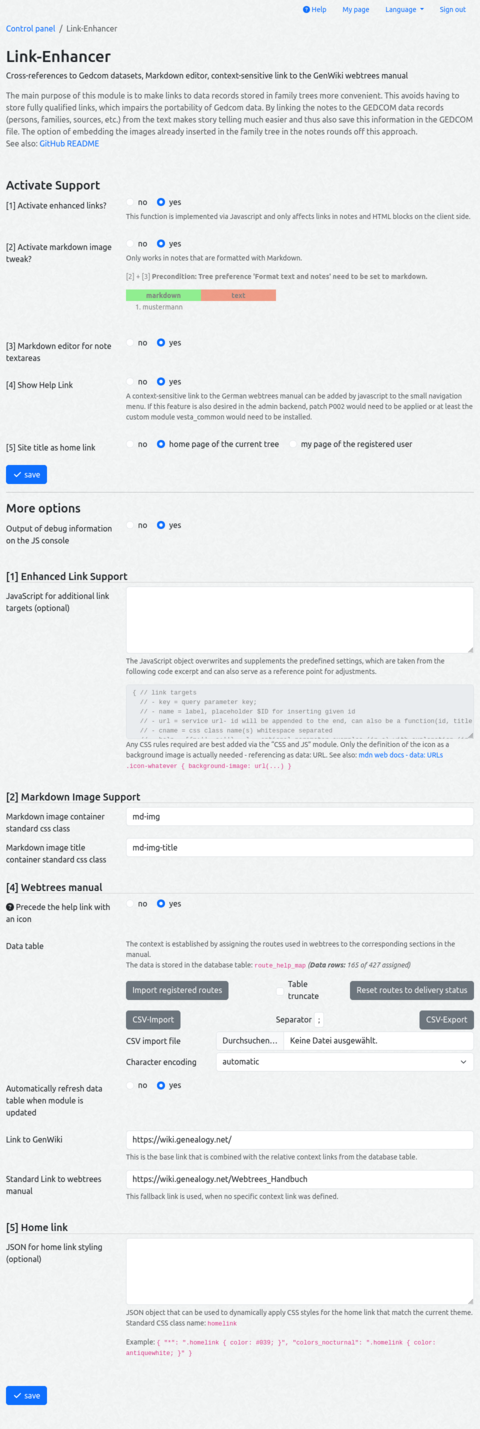
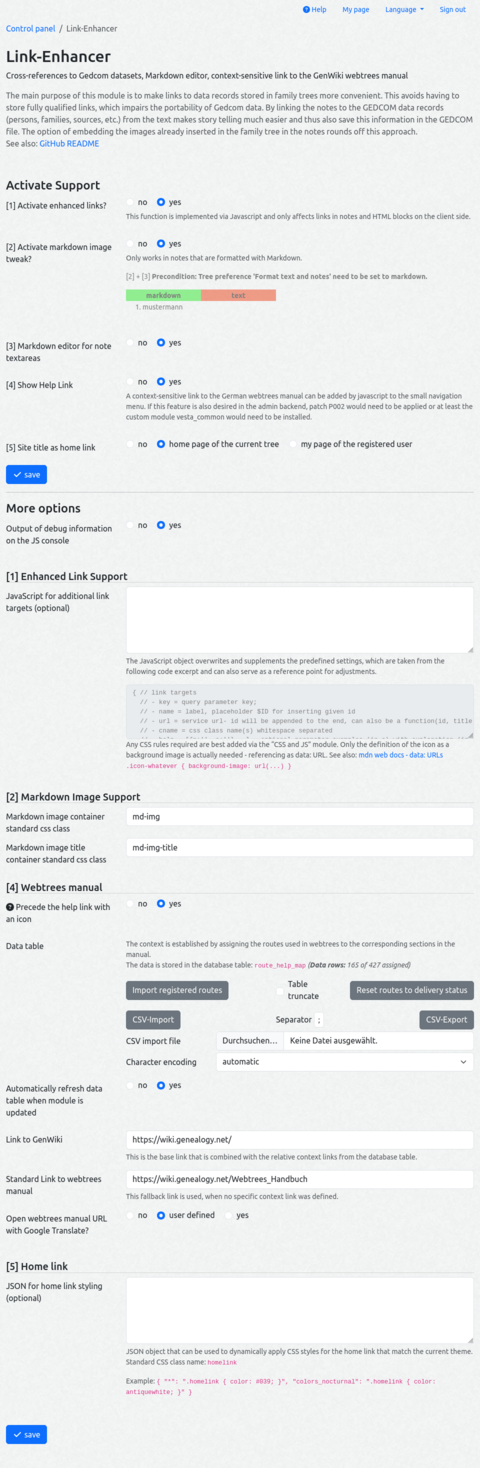
documentation

diff --git a/README.md b/README.md
@@ -33,7 +33,7 @@ Additionally there are some goodies more or less related with links:
 - The note textarea can be a [**visual markdown editor**](#mde) with **markdown help**.
 - A [**context sensitive help link**](#wthb) to the [german webtrees manual](https://wiki.genealogy.net/Webtrees_Handbuch) can be activated in the small menu at the top of the page.
 - The [**site title can be a link**](#homelink) to the tree homepage or the user my page.
-- A few minor **patches**, that can applied by bash script (not necessary for this module).
+- A few minor [**patches**](#patches), that can applied by bash script (not necessary for this module).
 
 <a name="enhancedlinks"></a>
 ### Enhanced links
@@ -171,6 +171,11 @@ Besides syntax higlighting it ships with an icon bar for common format commands,
 <a name="wthb"></a>
 ### German webtrees manual
 A context sensitive link to the [german webtrees manual](https://wiki.genealogy.net/Webtrees_Handbuch) can be added by javascript to the small navigation menu (if this feature is also desired in the admin backend, patch P002 would need to be applied or at least the custom module [vesta_common](https://github.com/vesta-webtrees-2-custom-modules/vesta_common/tree/master) would need to be installed).
+
+If the webtrees page is displayed in a language other than German, it is possible to open the webtrees manual URL via a translation service ([Google Translate](https://translate.google.com/)). This can be enabled or disabled as a site setting or delegated to the visitor to decide.
+![WTHB user setting](resources/img/screenshot_wthb-user-setting.png)
+The link to the setting dialog is displayed when you hover the mouse cursor over the help link for a few seconds.
+
 
 The mapping of routes to help articles in the manual is stored in the database table `route_help_map`. The table has the following headers (the headers required in a CSV file for import are marked with !!):
 
